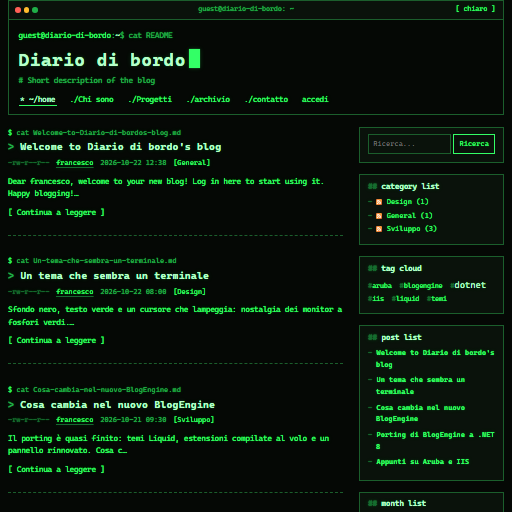
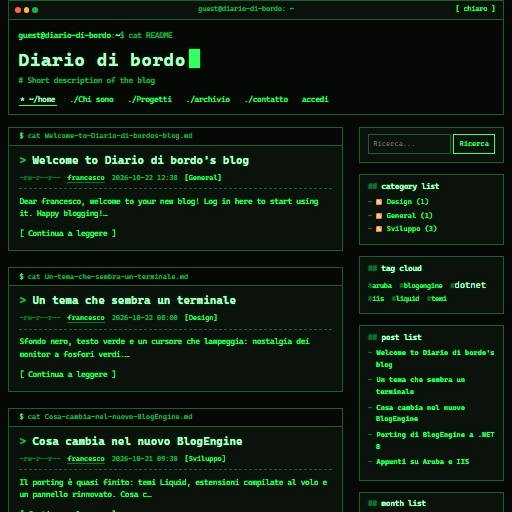
Tema Terminal: post dell'elenco in riquadri distinti
Ogni post dell'elenco diventa una piccola finestra con barra del comando,
sfondo proprio, separatore tra dati e anteprima, più spazio tra un post e
l'altro e bordo evidenziato al passaggio del mouse. Anteprima aggiornata.

Changed region(s): [[0.0, 0.5, 0.6875, 1.0], [0.0, 0.25, 0.625, 0.4688]]

diff --git a/src/BlogEngine.Web/Custom/Themes/Terminal/src/terminal.css b/src/BlogEngine.Web/Custom/Themes/Terminal/src/terminal.css
@@ -397,9 +397,44 @@ ul, ol {
     margin-bottom: 2.4rem;
 }
 
+/* Nell'elenco ogni post è una piccola finestra a sé: barra col comando, titolo, dati e anteprima. */
 .post-item {
-    padding-bottom: 2rem;
+    border: 1px solid var(--border);
+    background: var(--bg-panel);
+    padding: 0 1.3rem 1.2rem;
+    margin-bottom: 2rem;
+    transition: border-color .15s, box-shadow .15s;
+}
+
+.post-item:hover,
+.post-item:focus-within {
+    border-color: var(--fg-dim);
+    box-shadow: 0 0 0 1px var(--fg-faint), 0 0 18px rgba(51, 255, 102, .08);
+}
+
+.post-item .post-cmd {
+    margin: 0 -1.3rem 1rem;
+    padding: .35rem 1.3rem;
+    background: var(--bg);
+    border-bottom: 1px solid var(--border);
+    white-space: nowrap;
+    overflow: hidden;
+    text-overflow: ellipsis;
+}
+
+.post-item .post-title {
+    font-size: 1.4rem;
+    margin-top: 0;
+}
+
+.post-item .post-meta {
+    margin-bottom: .9em;
+    padding-bottom: .7em;
     border-bottom: 1px dashed var(--border);
+}
+
+.post-item .post-excerpt {
+    margin: 0 0 1em;
 }
 
 .post-cmd {
